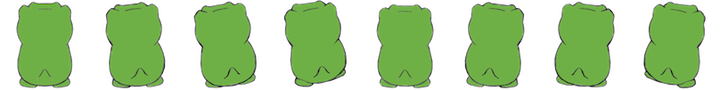
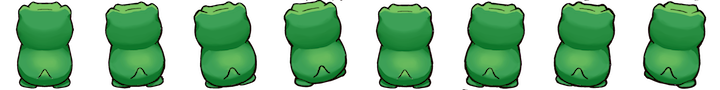
Added new sheets

diff --git a/core/src/tiktaalik/trino/GameController.java b/core/src/tiktaalik/trino/GameController.java
@@ -67,6 +67,7 @@ public class GameController implements ContactListener, Screen {
 	private static final String HERBIVORE_STRIP_RIGHT  = "trino/herbivore_right_strip.png";
 	private static final String HERBIVORE_STRIP_BACK  = "trino/herbivore_back_strip.png";
 	private static final String HERBIVORE_EATING_STRIP_LEFT  = "trino/herbivore_left_eating_strip.png";
+	private static final String HERBIVORE_EATING_STRIP_RIGHT  = "trino/herbivore_right_eating_strip.png";
 	private static final String CARNIVORE_STRIP_FRONT  = "trino/carnivore_front_strip.png";
 	private static final String CARNIVORE_STRIP_LEFT  = "trino/carnivore_left_strip.png";
 	private static final String CARNIVORE_STRIP_RIGHT  = "trino/carnivore_right_strip.png";
@@ -236,6 +237,8 @@ public class GameController implements ContactListener, Screen {
 		assets.add(HERBIVORE_STRIP_BACK);
 		manager.load(HERBIVORE_EATING_STRIP_LEFT, Texture.class);
 		assets.add(HERBIVORE_EATING_STRIP_LEFT);
+		manager.load(HERBIVORE_EATING_STRIP_RIGHT, Texture.class);
+		assets.add(HERBIVORE_EATING_STRIP_RIGHT);
 		manager.load(CARNIVORE_STRIP_LEFT, Texture.class);
 		assets.add(CARNIVORE_STRIP_LEFT);
 		manager.load(CARNIVORE_STRIP_RIGHT, Texture.class);
@@ -374,7 +377,7 @@ public class GameController implements ContactListener, Screen {
 		filmStripDict.put("herbivoreFront", createFilmTexture(manager,HERBIVORE_STRIP_FRONT));
 		filmStripDict.put("herbivoreBack", createFilmTexture(manager,HERBIVORE_STRIP_BACK));
 		filmStripDict.put("herbivoreEatingLeft", createFilmTexture(manager,HERBIVORE_EATING_STRIP_LEFT));
-		filmStripDict.put("herbivoreEatingRight", createFilmTexture(manager,DOLL_EATING_STRIP_RIGHT));
+		filmStripDict.put("herbivoreEatingRight", createFilmTexture(manager,HERBIVORE_EATING_STRIP_RIGHT));
 		filmStripDict.put("herbivoreEatingFront", createFilmTexture(manager,DOLL_EATING_STRIP_FRONT));
 		filmStripDict.put("herbivoreEatingBack", createFilmTexture(manager,DOLL_EATING_STRIP_BACK));
 		filmStripDict.put("enemyLeft", createFilmTexture(manager,ENEMY_STRIP_LEFT));
@@ -1018,7 +1021,7 @@ public class GameController implements ContactListener, Screen {
 								filmStripDict.get("herbivoreBack"), 8,
 								filmStripDict.get("herbivoreFront"), 8);
 						avatar.setEatingTextureSet(filmStripDict.get("herbivoreEatingLeft"), 10,
-								filmStripDict.get("herbivoreEatingRight"), 7,
+								filmStripDict.get("herbivoreEatingRight"), 10,
 								filmStripDict.get("herbivoreEatingBack"), 7,
 								filmStripDict.get("herbivoreEatingFront"), 7);
 

diff --git a/core/src/tiktaalik/trino/Level.java b/core/src/tiktaalik/trino/Level.java
@@ -450,7 +450,7 @@ public class Level {
         }
 
         dwidth = textureDict.get("fireFly").getRegionWidth() / (scale.x * 2);
-        for (int i = 0; i < 5; i++){
+        for (int i = 0; i < 8; i++){
             FireFly ff = new FireFly(MathUtils.random(2*bounds.width),
                     MathUtils.random(2*bounds.height), dwidth);
             ff.setType(FIREFLY);
